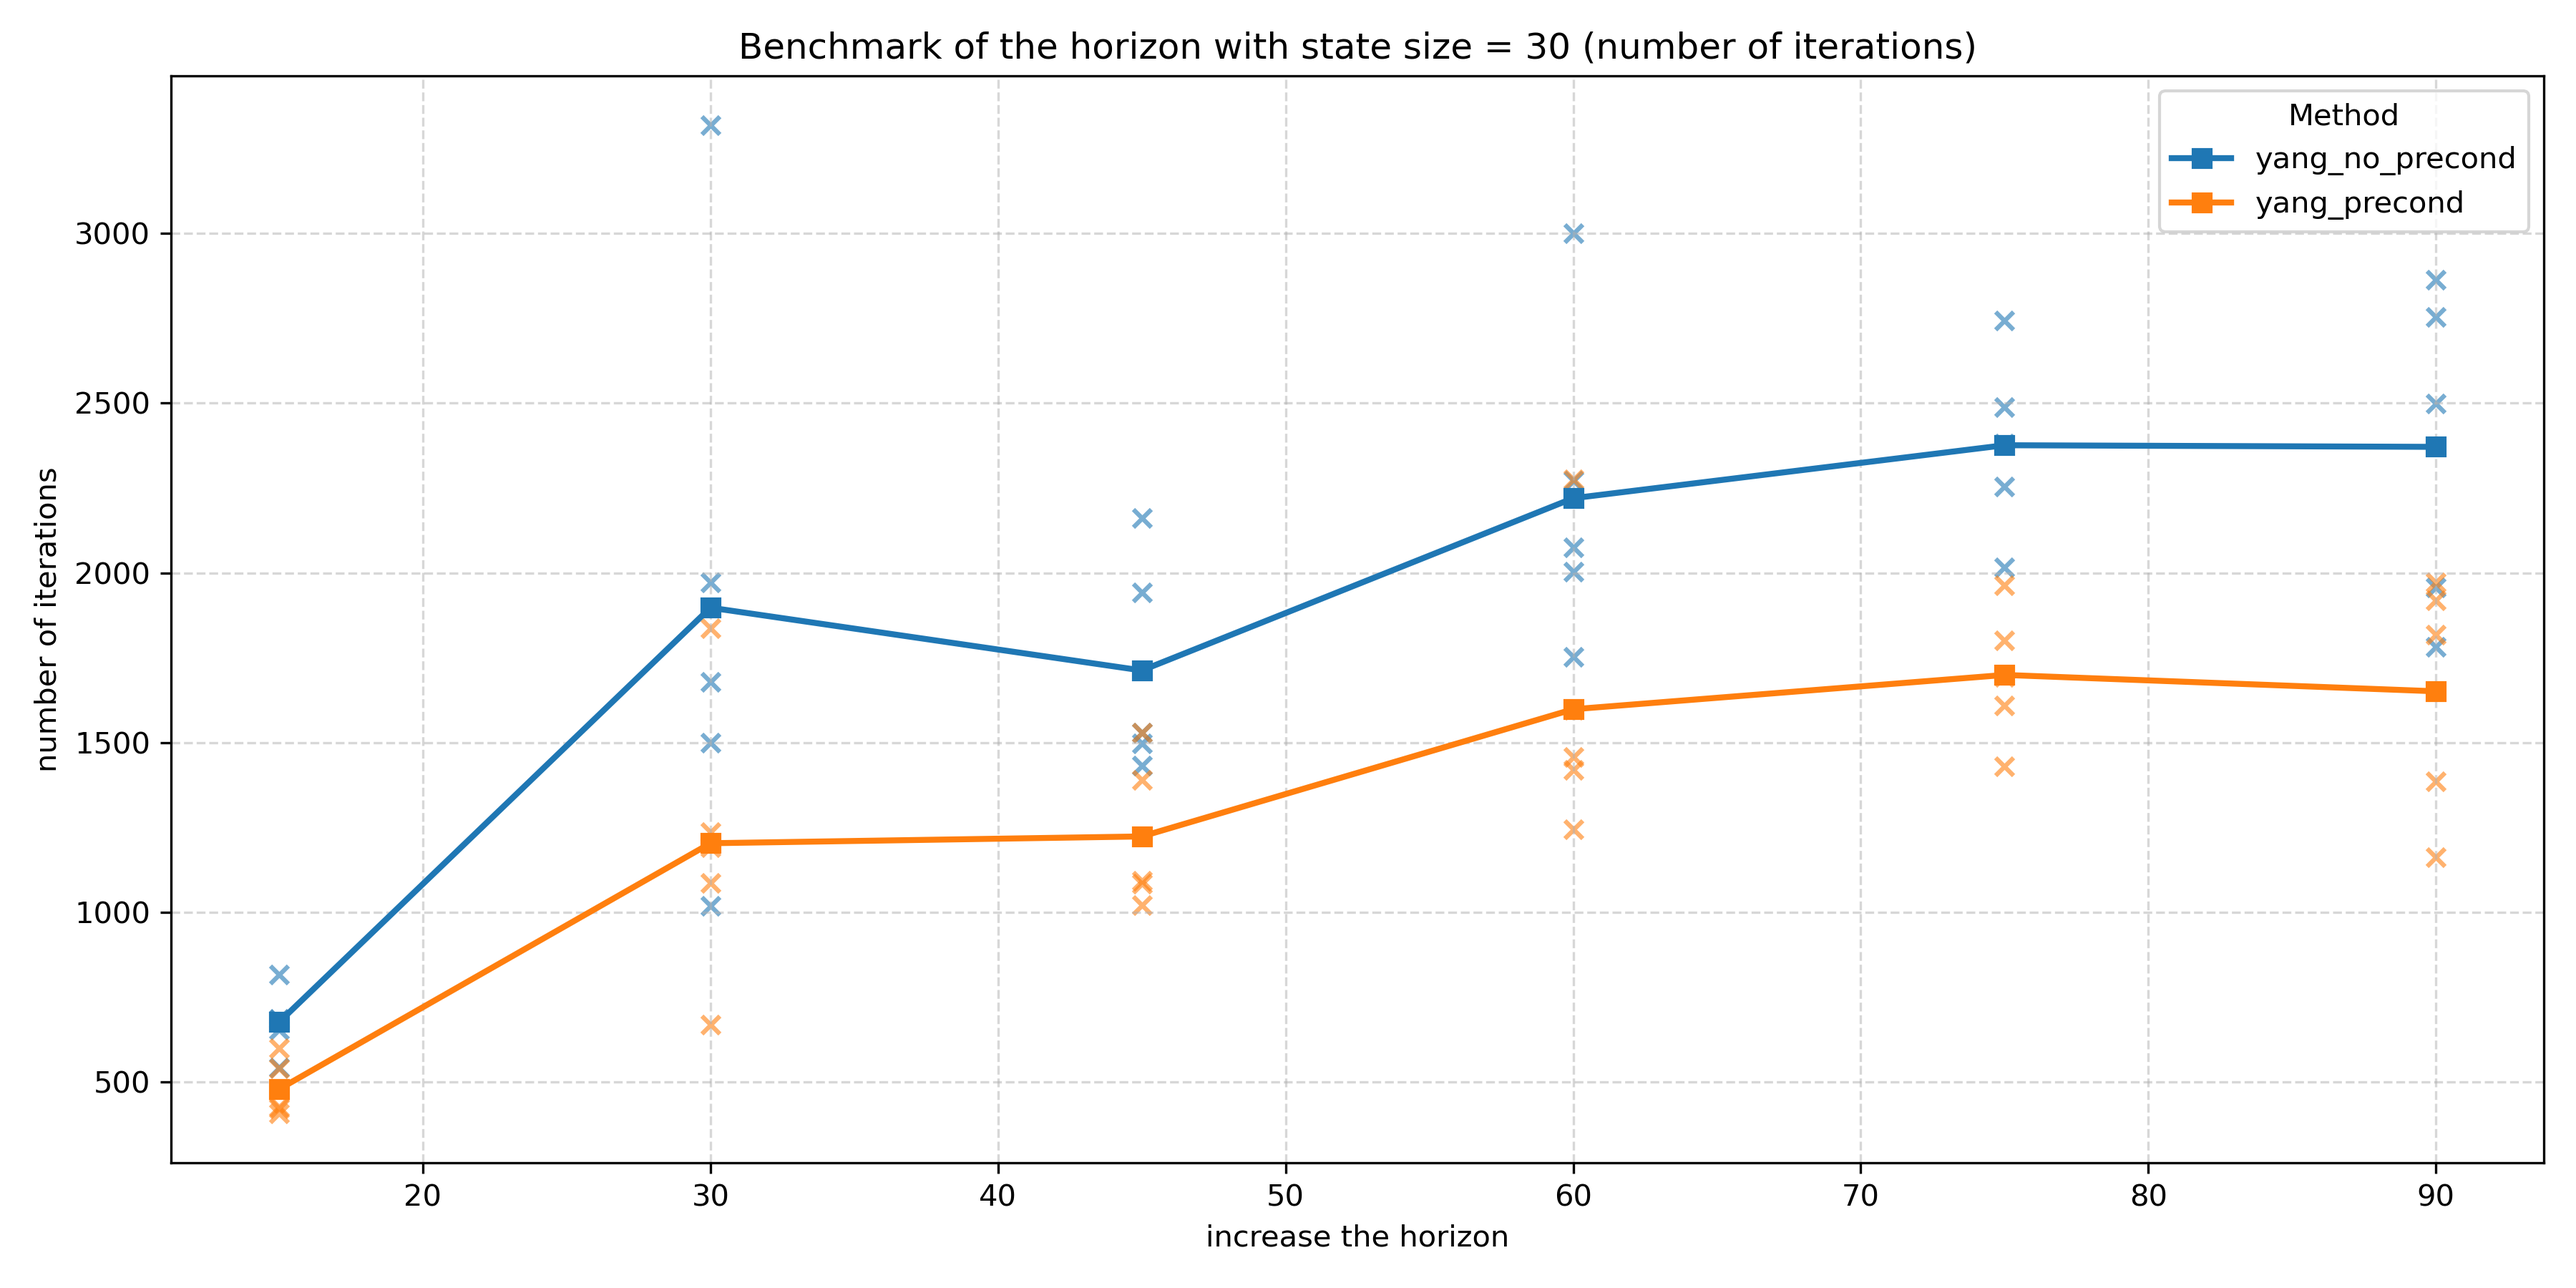
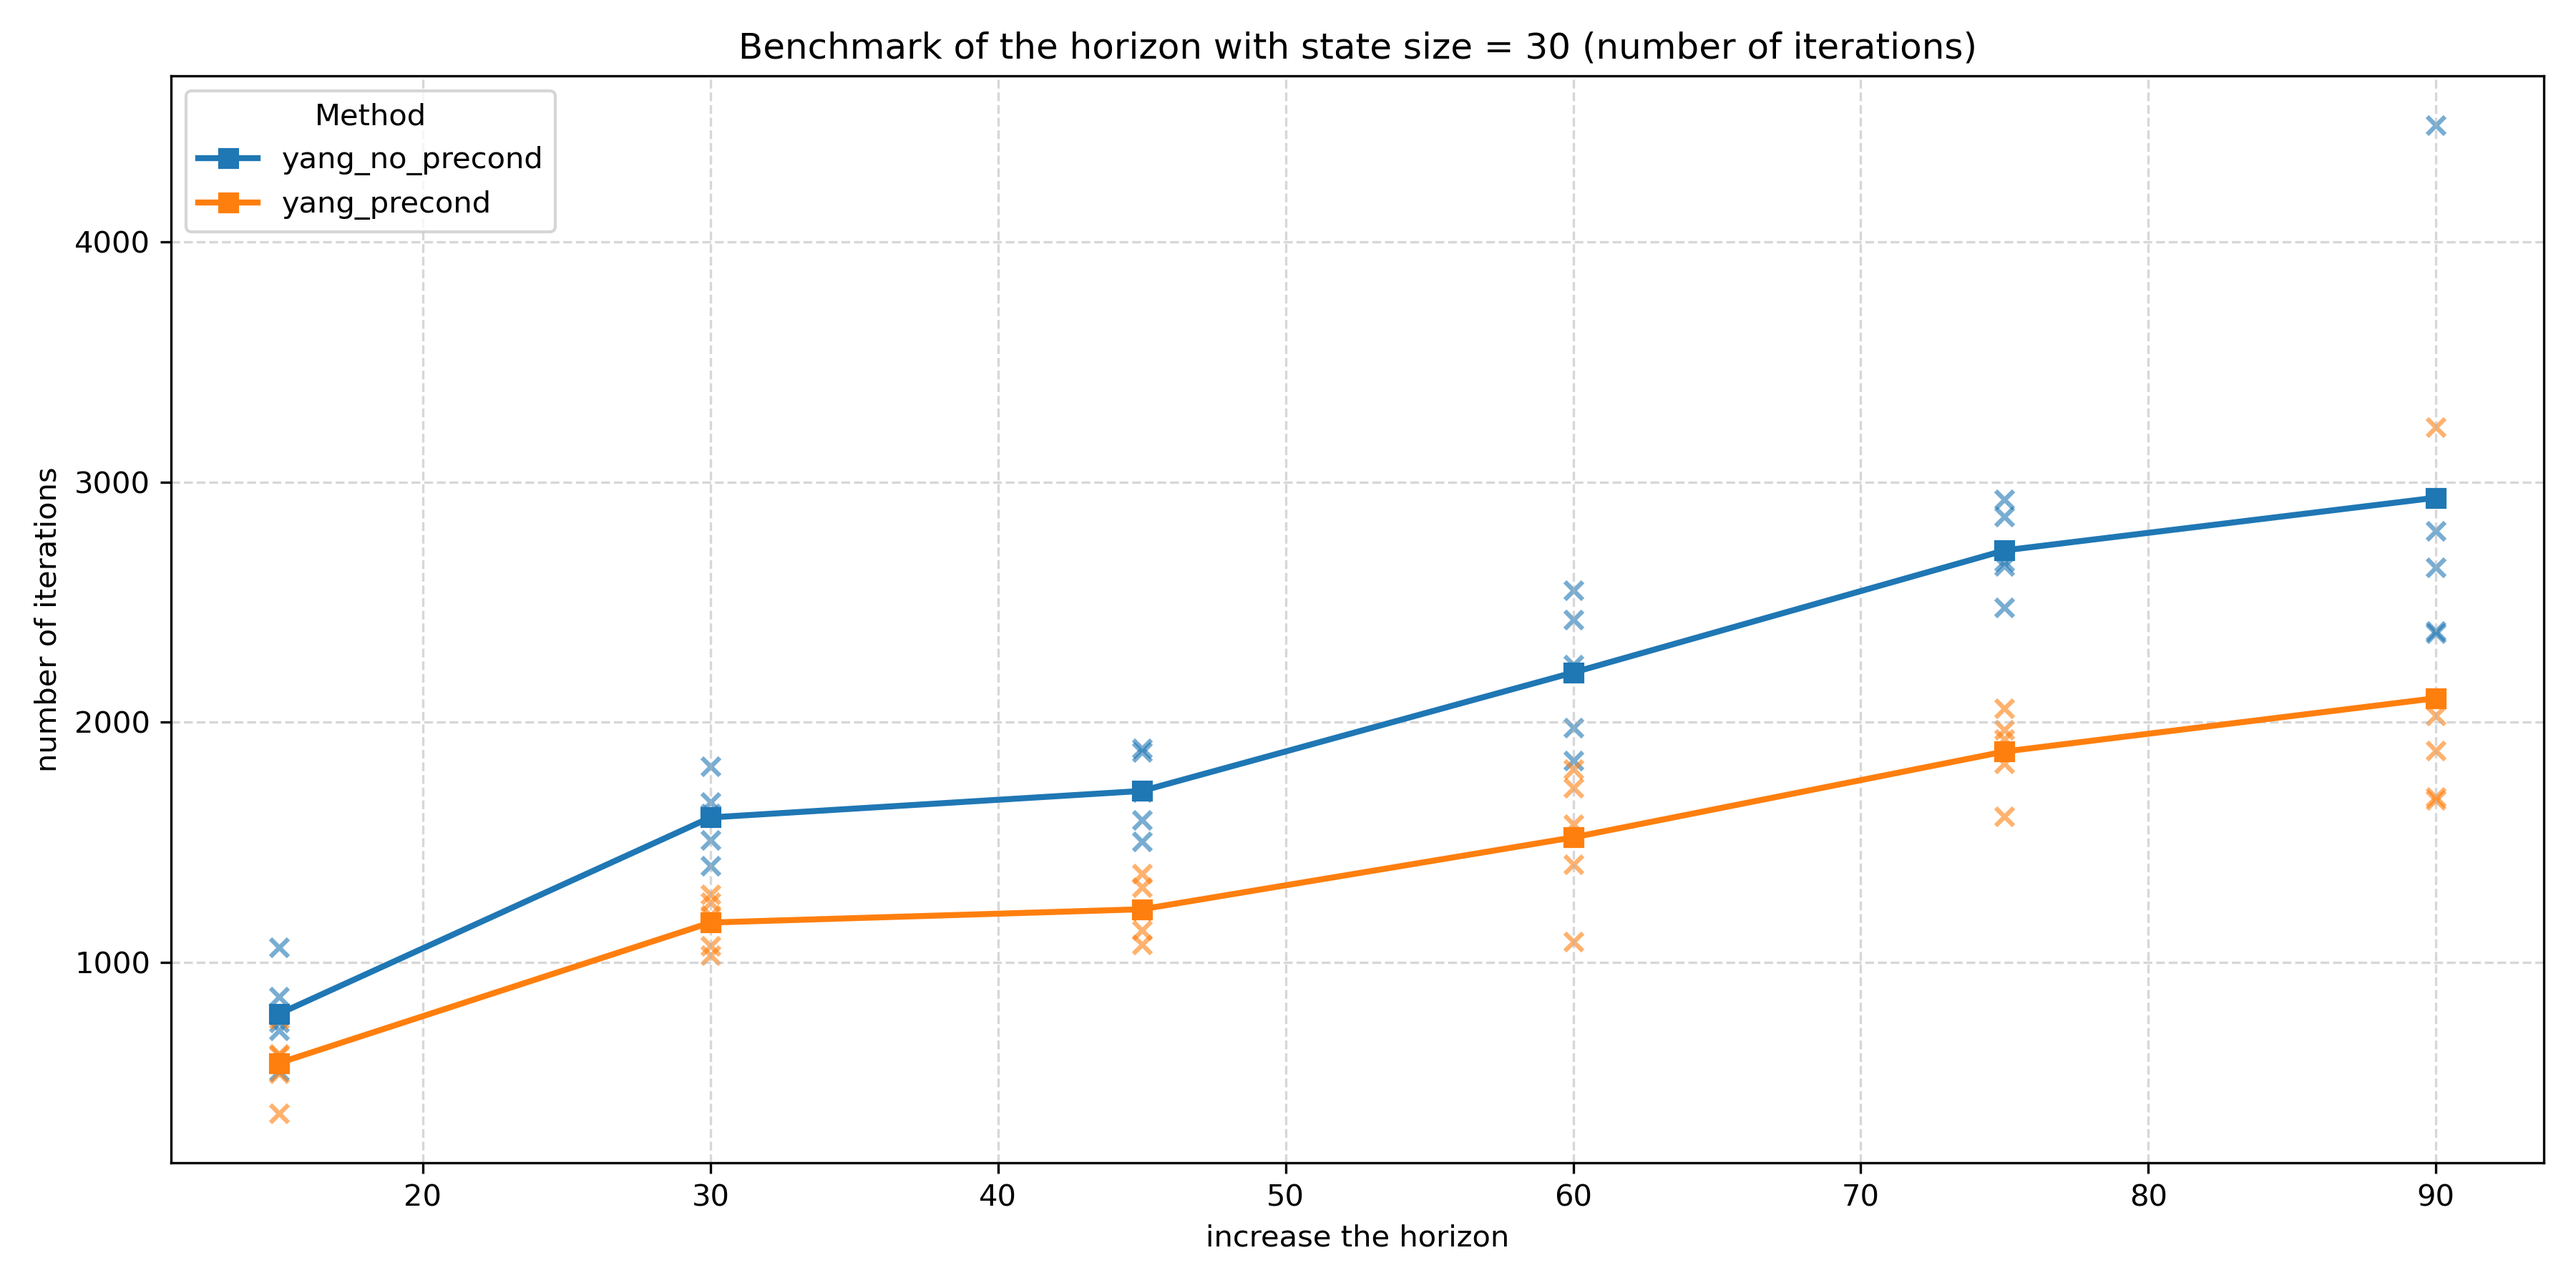
nbr_iteration

diff --git a/benchmark.py b/benchmark.py
@@ -127,7 +127,7 @@ def _normalize_points(state_sizes, knot_points):
         kp = kp * num_points
     return ss, kp
 
-def _defines_from_info(info, state_size, knot_points, method_name):
+def _defines_from_info(info, state_size, knot_points, method_name, NBR_ITERATION_MAX=100000):
     defs = []
     defs.append(f"-DSTATE_SIZE={state_size}")
     defs.append(f"-DKNOT_POINTS={knot_points}")
@@ -139,13 +139,14 @@ def _defines_from_info(info, state_size, knot_points, method_name):
         "STATExKERNEL", "KNOTxKERNEL",
         "STATExCOMPUTER", "KNOTxCOMPUTER",
         "STATExNBR_ITERATION", "KNOTxNBR_ITERATION",
-        "NBR_ITERATIONxERROR", "DOUBLE"
+        "NBR_ITERATIONxERROR", "DOUBLE",
     ]:
         val = int(getattr(info, name, 0))
         defs.append(f"-D{name}={val}")
 
     defs.append(f"-DOPTIMISED={int(is_optimised)}")
     defs.append(f'-DDATA_PATH=\\"{info.DATA_PATH}\\"')
+    defs.append(f"-DNBR_ITERATION_MAX={NBR_ITERATION_MAX}")
 
     return " ".join(defs)
 
@@ -228,11 +229,11 @@ def compute_run(info, generator_script="./include/generate_spd.py"):
     return results_x, results_y
 
 def compute_run_2(info, generator_script="./include/generate_spd.py"):
-    state_sizes, knot_points = _normalize_points(info.state_size, info.knot_point)
+    ss, kp = info.state_size[0], info.knot_point[0]
     methods = list(info.method_names)
     num_runs = int(info.nbr)
 
-    num_points = len(state_sizes)
+    num_points = len(info.NBR_RUN_ITERATION)
     num_methods = len(methods)
 
     results_x = [[[0.0 for _ in range(num_methods)] for _ in range(num_points)] for _ in range(num_runs)]
@@ -240,15 +241,14 @@ def compute_run_2(info, generator_script="./include/generate_spd.py"):
 
     prepared_cmds = [[None for _ in range(num_methods)] for _ in range(num_points)]
     executables_to_cleanup = []
+    run_generator(ss, kp, out_path=info.DATA_PATH, nu=1, script_path=generator_script)
 
     for point_idx in range(num_points):
-        ss = state_sizes[point_idx]
-        kp = knot_points[point_idx]
-        print(f"📏 Benchmarking state_size={ss}, kp={kp}")
+        print(f"📏 Benchmarking nbr_iter_max : {info.NBR_RUN_ITERATION[point_idx]}")
 
         for method_idx, method_name in enumerate(methods):
             src_path = info.method_path[method_name]
-            defines = _defines_from_info(info, ss, kp, method_name)
+            defines = _defines_from_info(info, ss, kp, method_name, NBR_ITERATION_MAX=info.NBR_RUN_ITERATION[point_idx])
 
             if src_path.endswith(".py"):
                 prepared_cmds[point_idx][method_idx] = f"python3 {src_path} {ss} {kp} {int(getattr(info, 'STATExKERNEL', 0))} {int(getattr(info, 'KNOTxKERNEL', 0))} {int(getattr(info, 'STATExCOMPUTER', 0))} {int(getattr(info, 'KNOTxCOMPUTER', 0))} "
@@ -269,7 +269,6 @@ def compute_run_2(info, generator_script="./include/generate_spd.py"):
 
         for run_idx in range(num_runs):
             print(f"🧪 Run {run_idx + 1}/{num_runs}")
-            run_generator(ss, kp, out_path=info.DATA_PATH, nu=1, script_path=generator_script)
 
             for method_idx, method_name in enumerate(methods):
                 cmd = prepared_cmds[point_idx][method_idx]
@@ -285,7 +284,10 @@ def compute_run_2(info, generator_script="./include/generate_spd.py"):
     return results_x, results_y
 
 def save_data_plot(info, generator_script="./include/generate_spd.py"):
-    results_x, results_y = compute_run(info, generator_script=generator_script)
+    if info.NBR_ITERATIONxERROR == 1:
+        results_x, results_y = compute_run_2(info, generator_script=generator_script)
+    else:
+        results_x, results_y = compute_run(info, generator_script=generator_script)
     filtered_x, filtered_y, avg_x, avg_y = eliminate_outliers_xy(results_x, results_y)
 
     data_dir = os.path.join(info.path_data)
@@ -353,7 +355,7 @@ class InfoBench:
     self.NBR_RUN_ITERATION = NBR_RUN_ITERATION
     self.DOUBLE = DOUBLE
 
-  def benchmark1(self):
+  def benchmark(self):
     save_data_plot(self)
 
 
@@ -379,7 +381,7 @@ if __name__ == "__main__":
       path_data = "datas/",
       STATExKERNEL = 1
   )
-  benchmark1.benchmark1()
+  # benchmark1.benchmark()
   
   # ------------ Second Benchmark ------------------
   benchmark2 = copy.deepcopy(benchmark1)
@@ -390,7 +392,7 @@ if __name__ == "__main__":
   benchmark2.x_label = "increase the horizon"
   benchmark2.STATExKERNEL = 0
   benchmark2.KNOTxKERNEL = 1
-  # benchmark2.benchmark1()
+  # benchmark2.benchmark()
 
   # ------------ third Benchmark ------------------
   benchmark3 = copy.deepcopy(benchmark1)
@@ -398,7 +400,7 @@ if __name__ == "__main__":
   benchmark3.title_plot = "Benchmark of the number of states with horizon = 50 (Total time)"
   benchmark3.STATExKERNEL = 0
   benchmark3.STATExCOMPUTER = 1
-  # benchmark3.benchmark1()
+  # benchmark3.benchmark()
 
   # ------------ fourth Benchmark ------------------
   benchmark4 = copy.deepcopy(benchmark2)
@@ -406,7 +408,7 @@ if __name__ == "__main__":
   benchmark4.title_plot = "Benchmark of the horizon with state size = 30 (Total time)"
   benchmark4.KNOTxKERNEL = 0
   benchmark4.KNOTxCOMPUTER = 1
-  # benchmark4.benchmark1()
+  # benchmark4.benchmark()
 
   # ------------ fifth Benchmark ------------------
   benchmark5 = copy.deepcopy(benchmark1)
@@ -420,7 +422,7 @@ if __name__ == "__main__":
   benchmark5.STATExKERNEL = 0
   benchmark5.STATExNBR_ITERATION = 1
   benchmark5.y_label = "number of iterations"
-  benchmark5.benchmark1()
+  # benchmark5.benchmark()
 
   # ------------ sixth Benchmark ------------------
   benchmark6 = copy.deepcopy(benchmark2)
@@ -434,26 +436,25 @@ if __name__ == "__main__":
   benchmark6.KNOTxKERNEL = 0
   benchmark6.KNOTxNBR_ITERATION = 1
   benchmark6.y_label = "number of iterations"
-  benchmark6.benchmark1()
+  # benchmark6.benchmark()
 
-  # # ------------ seventh Benchmark ------------------
-  # benchmark7 = InfoBench(
-  #   nbr_run = 25,
-  #   method_names = ["pcg_no_precond", "pcg_precond"],
-  #   method_path = {
-  #       "pcg_no_precond": "./CG_no_precond/CG_no_precond.cu",
-  #       "pcg_precond": "./CG_precond/CG_precond.cu"
-  #   },
-  #   state_size = [30],
-  #   knot_point = [100],
-  #   path_plot = "Benchmark/plots/",
-  #   folder_name_plot = "plots/",
-  #   file_name_plot = "errors_iterations",
-  #   title_plot = "Benchmark of the number of iterations vs error with state size = 30 and horizon = 100",
-  #   x_label = "number of iterations",
-  #   y_label = "error l2 norm",
-  #   path_data = "Benchmark/datas/",
-  #   folder_name_data = "nbr_iterations_x_error/",
-  #   NBR_ITERATIONxERROR = 1
-  # )
-  # benchmark7.benchmark()
+  # ------------ seventh Benchmark ------------------
+  benchmark7 = InfoBench(
+    nbr_run = 5,
+    method_names = ["yang_no_precond", "yang_precond"],
+    method_path = {
+            "yang_no_precond": "./src/yang/yang_no_precond.cu",
+            "yang_precond": "./src/yang/yang_precond.cu"
+    },
+    state_size = [30],
+    knot_point = [100],
+    path_plot = "plots/",
+    file_name_plot = "errors_iterations",
+    title_plot = "Benchmark of the number of iterations vs error with state size = 30 and horizon = 100",
+    x_label = "number of iterations",
+    y_label = "error l2 norm",
+    path_data = "datas/",
+    NBR_ITERATIONxERROR = 1,
+    NBR_RUN_ITERATION = [20, 50, 100, 200, 300, 400, 500, 600, 700, 800, 900, 1000, 1200, 1400, 1600, 1800, 2000, 2500, 3000, 3500, 4000]
+  )
+  benchmark7.benchmark()

diff --git a/include/constants.h b/include/constants.h
@@ -63,7 +63,7 @@
 #define OPTIMISED 0
 #endif
 
-#ifndef NBR_ITERATION
+#ifndef NBR_ITERATION_MAX
 #define NBR_ITERATION_MAX 100000
 #endif
 
